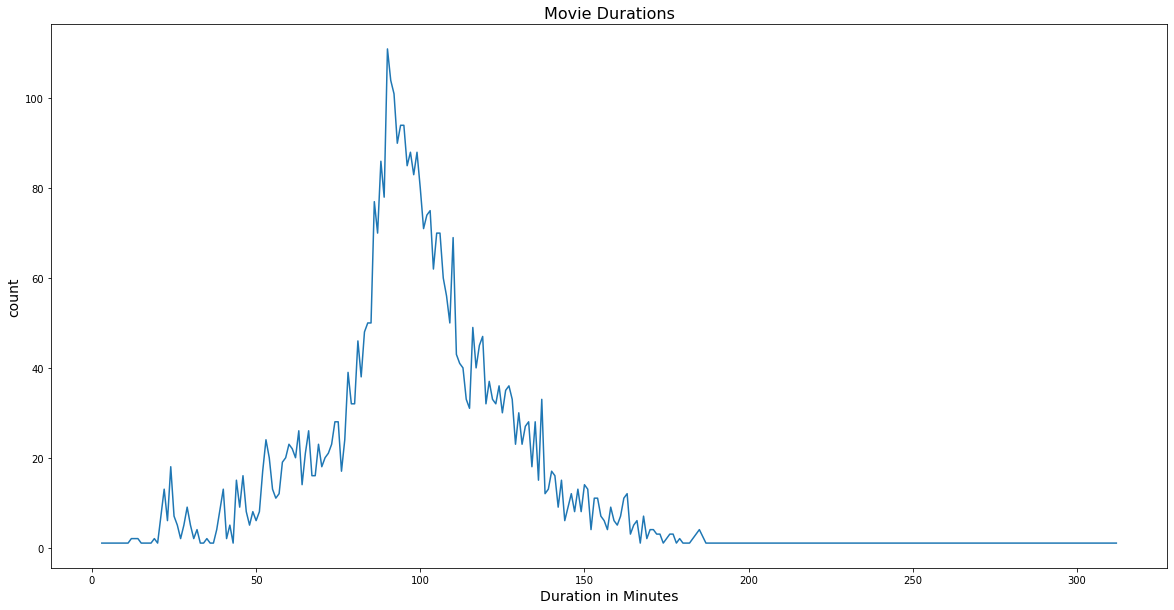
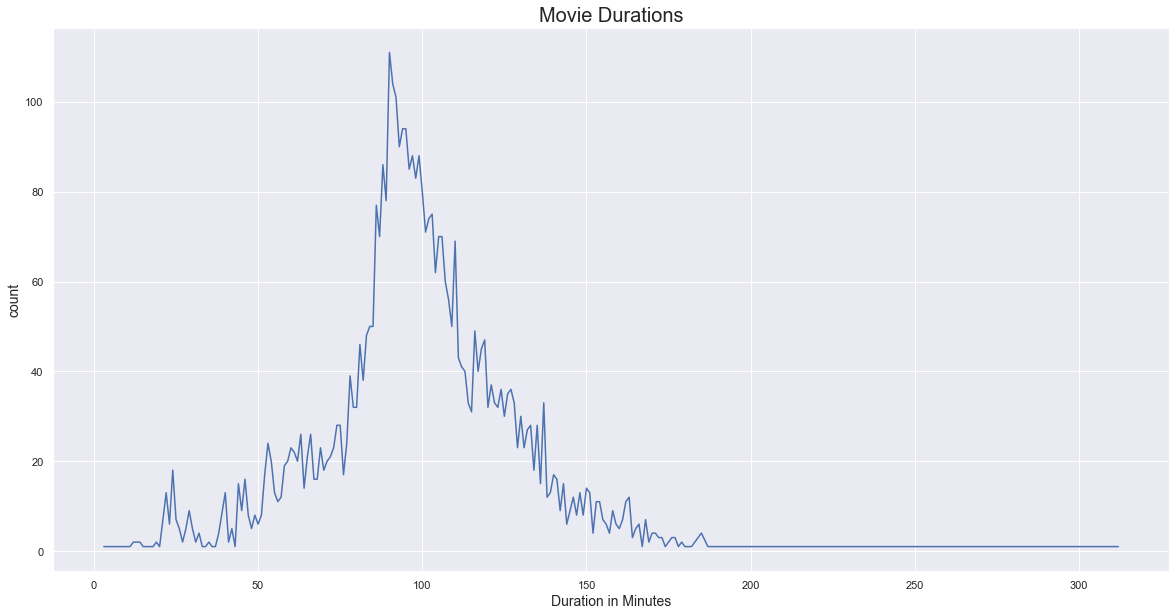
Using tables ijn README

diff --git a/Netflix.py b/Netflix.py
@@ -21,6 +21,16 @@ from wordcloud import WordCloud
 from sklearn.feature_extraction.text import CountVectorizer #Bag of Words
 
 
+from nltk.stem.porter import PorterStemmer
+from nltk.stem.wordnet import WordNetLemmatizer
+from nltk.tokenize import word_tokenize
+from nltk.corpus import stopwords
+from nltk.probability import FreqDist
+
+import re
+from sklearn.feature_extraction.text import CountVectorizer #Bag of Words
+
+
 
 # The df used was collected from the following website:
 # https://www.kaggle.com/shivamb/netflix-shows
@@ -53,19 +63,7 @@ df.isnull().sum()
 
 # dropping null value columns to avoid errors 
 # You cant create a code to autofill the string data
-df.dropna(inplace = True) 
-#show_id            0
-# Type               0
-# Title              0
-# director        1969
-# cast             570
-# country          476
-# date_added        11
-# release_year       0
-# rating            10
-# duration           0
-# listed_in          0
-# description        0
+#df.dropna(inplace = True) 
 
 # checking the df shape
 print(df.shape)
@@ -101,7 +99,11 @@ df['new_or_old'] = df['year_added'] - df['release_year']
 # =============================================================================
 
 movie = df[df['type'] == 'Movie']
+movie.isnull().sum() 
+
 tv_show = df[df['type'] == 'TV Show']
+tv_show .isnull().sum() 
+
 
 movie['duration'] = movie['duration'].str.strip(' min')
 movie['duration'] = movie['duration'].astype(int)
@@ -182,27 +184,6 @@ plt.pie(sizes, labels = labels, autopct = '%1.1f%%',
 plt.title('Breakdown of Type', fontdict = None, position = [0.48,1], size = 'xx-large')
 plt.show()
 
-
-# =============================================================================
-# Examining listed_in
-# =============================================================================
-df['listed_in'].unique()
-
-df.groupby(['listed_in']).size().sort_values(ascending=False)
-# Movie      4265
-# TV Show    1969
-
-# Examines the ratings 
-plt.figure(figsize = (12, 8))
-sns.countplot(x = 'listed_in', data = df, palette = 'viridis', order = df['listed_in'].value_counts().head(25).index)
-plt.xticks(rotation = 90)
-plt.title('Breakdown of Top 25 listed_in', fontsize = 16)
-plt.ylabel('count', fontsize = 14)
-plt.xlabel('listed_in', fontsize = 14)
-plt.show()
-
-
-
 # =============================================================================
 # Examining release_year
 # =============================================================================
@@ -232,11 +213,14 @@ df['new_or_old'].value_counts()
 df.groupby(['new_or_old']).size().sort_values(ascending=False)
 
 df.info()
+## there are missing values so I decided to give it a value of -1 because our data does not have
+## negative numbers and it will be easy to see if it is really NA
 df['new_or_old'] = df['new_or_old'].fillna(-1)
 
 df['new_or_old'] = df['new_or_old'].astype(int)
 
 # Examines the ratings 
+sns.set()
 plt.figure(figsize = (12, 8))
 sns.countplot(y = 'new_or_old', data = df, palette = 'magma', order = df['new_or_old'].value_counts().head(20).index)
 plt.title('How long does it take Netflix to add content to its website?', fontsize = 20)
@@ -258,7 +242,7 @@ movie_duration = movie['duration'].value_counts()
 
 fig = plt.figure(figsize = (20,10))
 sns.lineplot(data = movie_duration)
-plt.title('Movie Durations', fontsize = 16)
+plt.title('Movie Durations', fontsize = 20)
 plt.ylabel('count', fontsize = 14)
 plt.xlabel('Duration in Minutes', fontsize = 14)
 plt.show()
@@ -281,83 +265,9 @@ plt.xlabel('Seasons', fontsize = 14)
 plt.show()
 
 
-# =============================================================================
-# Preparing Genres
-# =============================================================================
-
-# new data frame with split value columns 
-new_listed_in= df['listed_in'].str.split(', ', n = 6, expand = True) 
-# making separate first listed_in column from new data frame 
-df['first listed_in']= new_listed_in[0]
-# making separate second listed_in column from new data frame 
-df['second listed_in']= new_listed_in[1] 
-# making separate third listed_in column from new data frame 
-df['third listed_in']= new_listed_in[2] 
 
 
-'''
-Not efficient. Need to create a loop for the function. 
-got the idea from https://www.geeksforgeeks.org/python-pandas-split-strings-into-two-list-columns-using-str-split/
-'''
-
-'''
-# After many hours of (what seemed like) an impossible tasks of splitting the column hunting, 
-# I ran into this code: https://www.kaggle.com/subinium/storytelling-with-data-netflix-ver
-# the use of LAMBDA is important!!!!
-# Most practise the use of Lamdba more!
-'''
 
 
-df['genre'] = df['listed_in'].apply(lambda x :  x.replace(' ,',',').replace(', ',',').split(',')) 
-Types = []
-for i in df['genre']: Types += i
-Types = set(Types)
-
-print(df['genre'])
-
-# =============================================================================
-# Examining countries that produced films
-# =============================================================================
-df['country'].unique()
-
-country = df['country'].value_counts().head(25)
-
-
-country.head(15).plot(kind = 'barh')
-
-# Examines the top 25 countries that have complaints
-plt.figure(figsize = (12, 8))
-sns.countplot(x = 'country', data = df, palette = 'viridis', order = df['country'].value_counts().head(25).index)
-plt.xticks(rotation = 90)
-plt.title('Breakdown of Countries', fontsize = 16)
-plt.ylabel('count', fontsize = 14)
-plt.xlabel('Countries', fontsize = 14)
-plt.show()
-
-
-# =============================================================================
-# Other interesting points to identify
-# =============================================================================
-#Upon further inspection of the data,it was noted that the following columns need to be split.
-## countries,
-## director
-## cast,
-## listed_in
-#
-# THere are also a lot of NULL values for director and cast members, which I will have to decided what to do with 
-
-# do a stacked barchart by country and Type
-
-# create a map of the world with saturation
-
-# split duration by Seasons and minutes for Movies and TV Shows
-
-# examine release dates
-# examine release dates and titles (Christmas Movies released at Christmas etc.)
-# examine the description
-
-# run a Machine Learning Algorithm to predict Rating based on listed_in and title and description
-    # so kids movies get catergorised as kids movies and adult movies are categorised as kids movies.
-#Split the director and cast and analyse by them. (eg. Jennifer Aniston mostly stars in comedies)
     
 

diff --git a/Extra_code.py b/Extra_code.py
@@ -1,0 +1,130 @@
+# -*- coding: utf-8 -*-
+"""
+Created on Sun Nov 15 17:11:31 2020
+
+@author: Karina
+"""
+
+# =============================================================================
+# Examining listed_in
+# =============================================================================
+df['listed_in'].unique()
+
+df.groupby(['listed_in']).size().sort_values(ascending=False)
+# Movie      4265
+# TV Show    1969
+
+# Examines the ratings 
+plt.figure(figsize = (12, 8))
+sns.countplot(x = 'listed_in', data = df, palette = 'viridis', order = df['listed_in'].value_counts().head(25).index)
+plt.xticks(rotation = 90)
+plt.title('Breakdown of Top 25 listed_in', fontsize = 16)
+plt.ylabel('count', fontsize = 14)
+plt.xlabel('listed_in', fontsize = 14)
+plt.show()
+
+# =============================================================================
+# Examining countries that produced films
+# =============================================================================
+df['country'].unique()
+
+country = df['country'].value_counts().head(25)
+
+
+country.head(15).plot(kind = 'barh')
+
+# Examines the top 25 countries that have complaints
+plt.figure(figsize = (12, 8))
+sns.countplot(x = 'country', data = df, palette = 'viridis', order = df['country'].value_counts().head(25).index)
+plt.xticks(rotation = 90)
+plt.title('Breakdown of Countries', fontsize = 16)
+plt.ylabel('count', fontsize = 14)
+plt.xlabel('Countries', fontsize = 14)
+plt.show()
+
+
+# =============================================================================
+# Preparing Genres
+# =============================================================================
+
+# new data frame with split value columns 
+new_listed_in= df['listed_in'].str.split(', ', n = 6, expand = True) 
+# making separate first listed_in column from new data frame 
+df['first listed_in']= new_listed_in[0]
+# making separate second listed_in column from new data frame 
+df['second listed_in']= new_listed_in[1] 
+# making separate third listed_in column from new data frame 
+df['third listed_in']= new_listed_in[2] 
+
+
+'''
+Not efficient. Need to create a loop for the function. 
+got the idea from https://www.geeksforgeeks.org/python-pandas-split-strings-into-two-list-columns-using-str-split/
+'''
+
+'''
+# After many hours of (what seemed like) an impossible tasks of splitting the column hunting, 
+# I ran into this code: https://www.kaggle.com/subinium/storytelling-with-data-netflix-ver
+# the use of LAMBDA is important!!!!
+# Most practise the use of Lamdba more!
+'''
+
+
+df['genre'] = df['listed_in'].apply(lambda x :  x.replace(' ,',',').replace(', ',',').split(',')) 
+Types = []
+for i in df['genre']: Types += i
+Types = set(Types)
+
+print(df['genre'])
+
+
+# =============================================================================
+# Countries
+# =============================================================================
+## The issue with countries is that there are some films and Movies that have a
+## several locations and it is impossible just to do a barchart with the data.
+
+sns.set(style="white", color_codes=True)
+
+# We want a very fast way to concat strings.
+s = StringIO()
+df['country'].apply(lambda x: s.write(x))
+
+k = s.getvalue()
+s.close()
+k = k.split()
+
+# Next only want valid strings
+words = co.Counter(nltk.corpus.words.words())
+stopWords = co.Counter( nltk.corpus.stopwords.words() )
+k = [i for i in k if i in words and i not in stopWords]
+s = " ".join(k)
+c = co.Counter(k)
+
+# At this point we have k,s and c
+# k Array of words, with stop words removed
+# s Concatinated string of all countries
+# c Collection of words
+# Take a look at the 14 most common words
+c.most_common(14)
+
+s[0:100]
+
+print(k[0:10],"\n\nLength of k %s" % len(k))
+
+
+# Read the whole text.
+movie['country'] = movie['country'].astype(str)
+
+text = df['country']
+
+# Generate a word cloud image
+wordcloud = WordCloud().generate(text)
+
+
+# take relative word frequencies into account, lower max_font_size
+wordcloud = WordCloud(background_color="white",max_words=len(k),max_font_size=40, relative_scaling=.8).generate(text)
+plt.figure()
+plt.imshow(wordcloud)
+plt.axis("off")
+plt.show()

diff --git a/README.md b/README.md
@@ -58,4 +58,45 @@ An average film on Netflix rather long (M = 102 minutes, SD = 26 minutes).
 The shortest film on Netflix is 12 minutes and the longest is 228 minutes.
 
 **How many Seasons do most TV Shows have?**
+
 ![seasons](https://github.com/kjonina/Netflix/blob/master/Graphs/seasons.png)
+
+
+
+## Next Questions to anwer: 
+
+**What are the most common words in TV Show Movie description?**
+
+
+**What are the most genre?**
+
+
+
+
+
+
+
+ =============================================================================
+ Other interesting points to identify
+ =============================================================================
+Upon further inspection of the data,it was noted that the following columns need to be split.
+# countries,
+# director
+# cast,
+# listed_in
+
+ THere are also a lot of NULL values for director and cast members, which I will have to decided what to do with 
+
+ do a stacked barchart by country and Type
+
+ create a map of the world with saturation
+
+ split duration by Seasons and minutes for Movies and TV Shows
+
+ examine release dates
+ examine release dates and titles (Christmas Movies released at Christmas etc.)
+ examine the description
+
+ run a Machine Learning Algorithm to predict Rating based on listed_in and title and description
+     so kids movies get catergorised as kids movies and adult movies are categorised as kids movies.
+Split the director and cast and analyse by them. (eg. Jennifer Aniston mostly stars in comedies)
